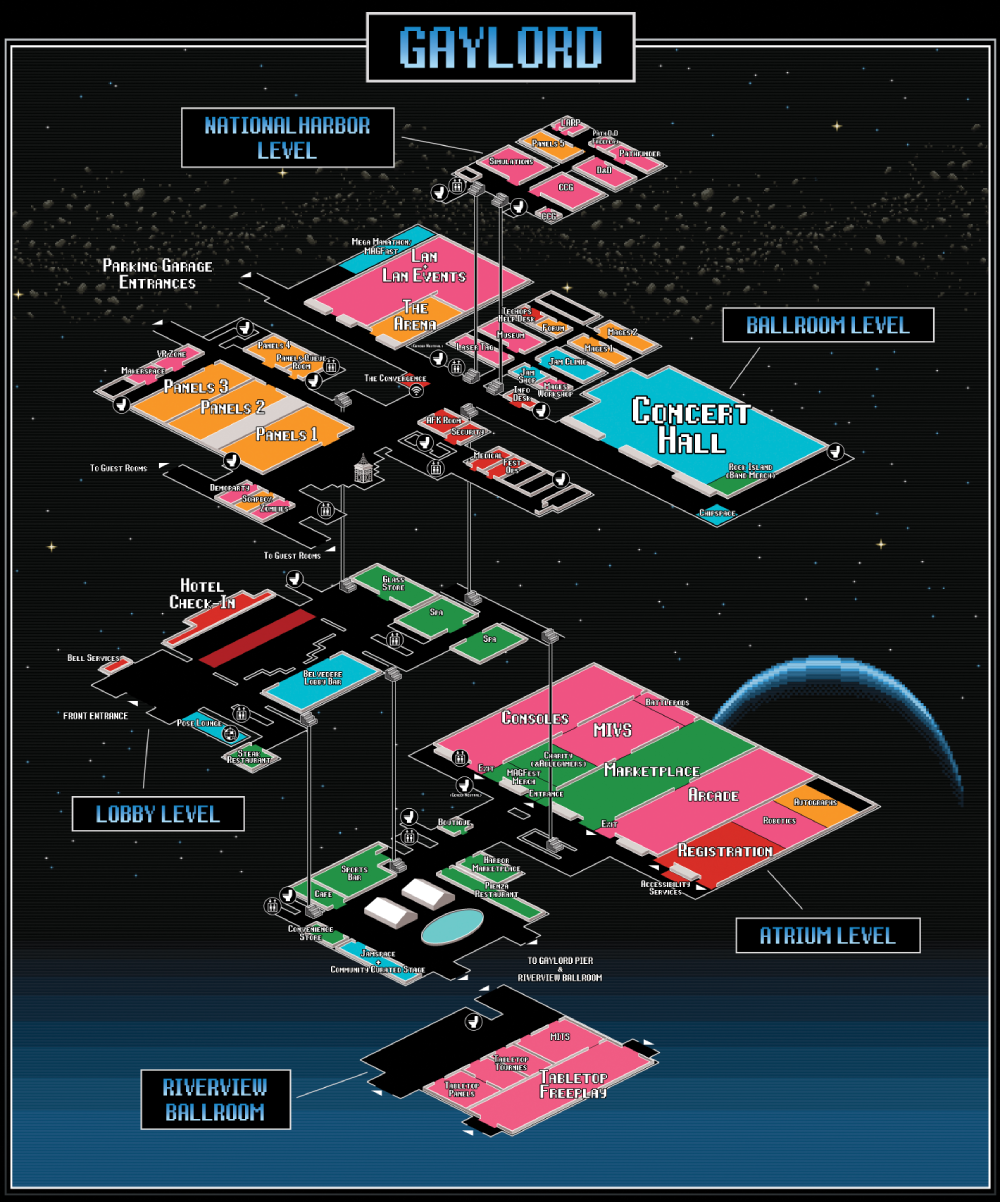
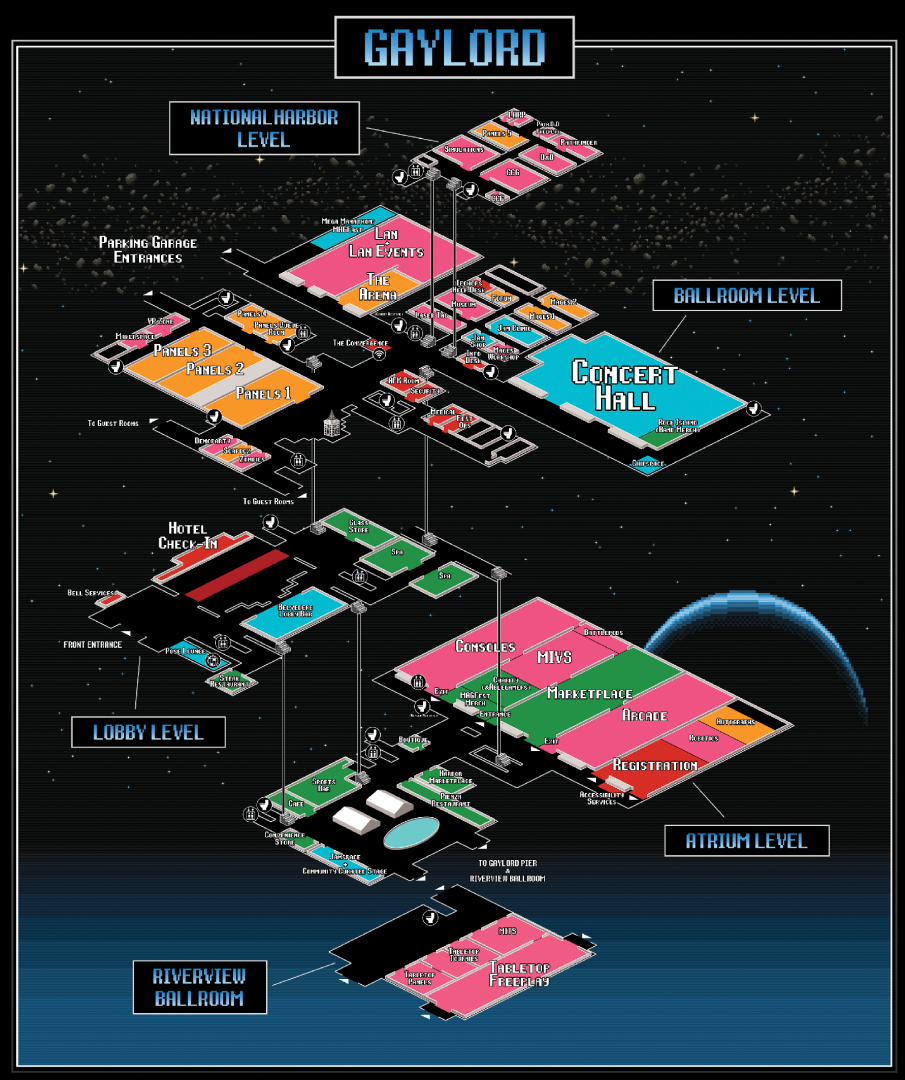
shouldn't have deleted this

Changed region(s): [[0.0, 0.0, 1.0, 1.0], [0.1238, 0.8861, 0.3094, 0.9472]]

diff --git a/app/javascript/schedule.vue b/app/javascript/schedule.vue
@@ -5,10 +5,10 @@
   </v-container>
 
   <v-layout flex class="layout" v-else>
-    <v-flex xs6>
+    <v-flex xs5>
       <img src="./assets/gaylord_map_-_full.png" class="map"/>
     </v-flex>
-    <v-flex xs6>
+    <v-flex xs7>
       <List/>
     </v-flex>
   </v-layout>
@@ -74,13 +74,12 @@
 
 <style scoped>
 .map{
-  width: 100%;
-  height: auto;
+  height: 100vh;
   padding: 10px;
 }
 
   .layout{
-    height: 98vh;
+    height: 100vh;
     background-color: black;
     color: lightblue;
   }

diff --git a/app/javascript/components/attendee_facing/Event.vue b/app/javascript/components/attendee_facing/Event.vue
@@ -67,4 +67,8 @@
   right: 20px;
   text-align: right;
 }
+
+..altColor{
+  background-color: rgba(15, 32, 65, 0.96);
+}
 </style>
